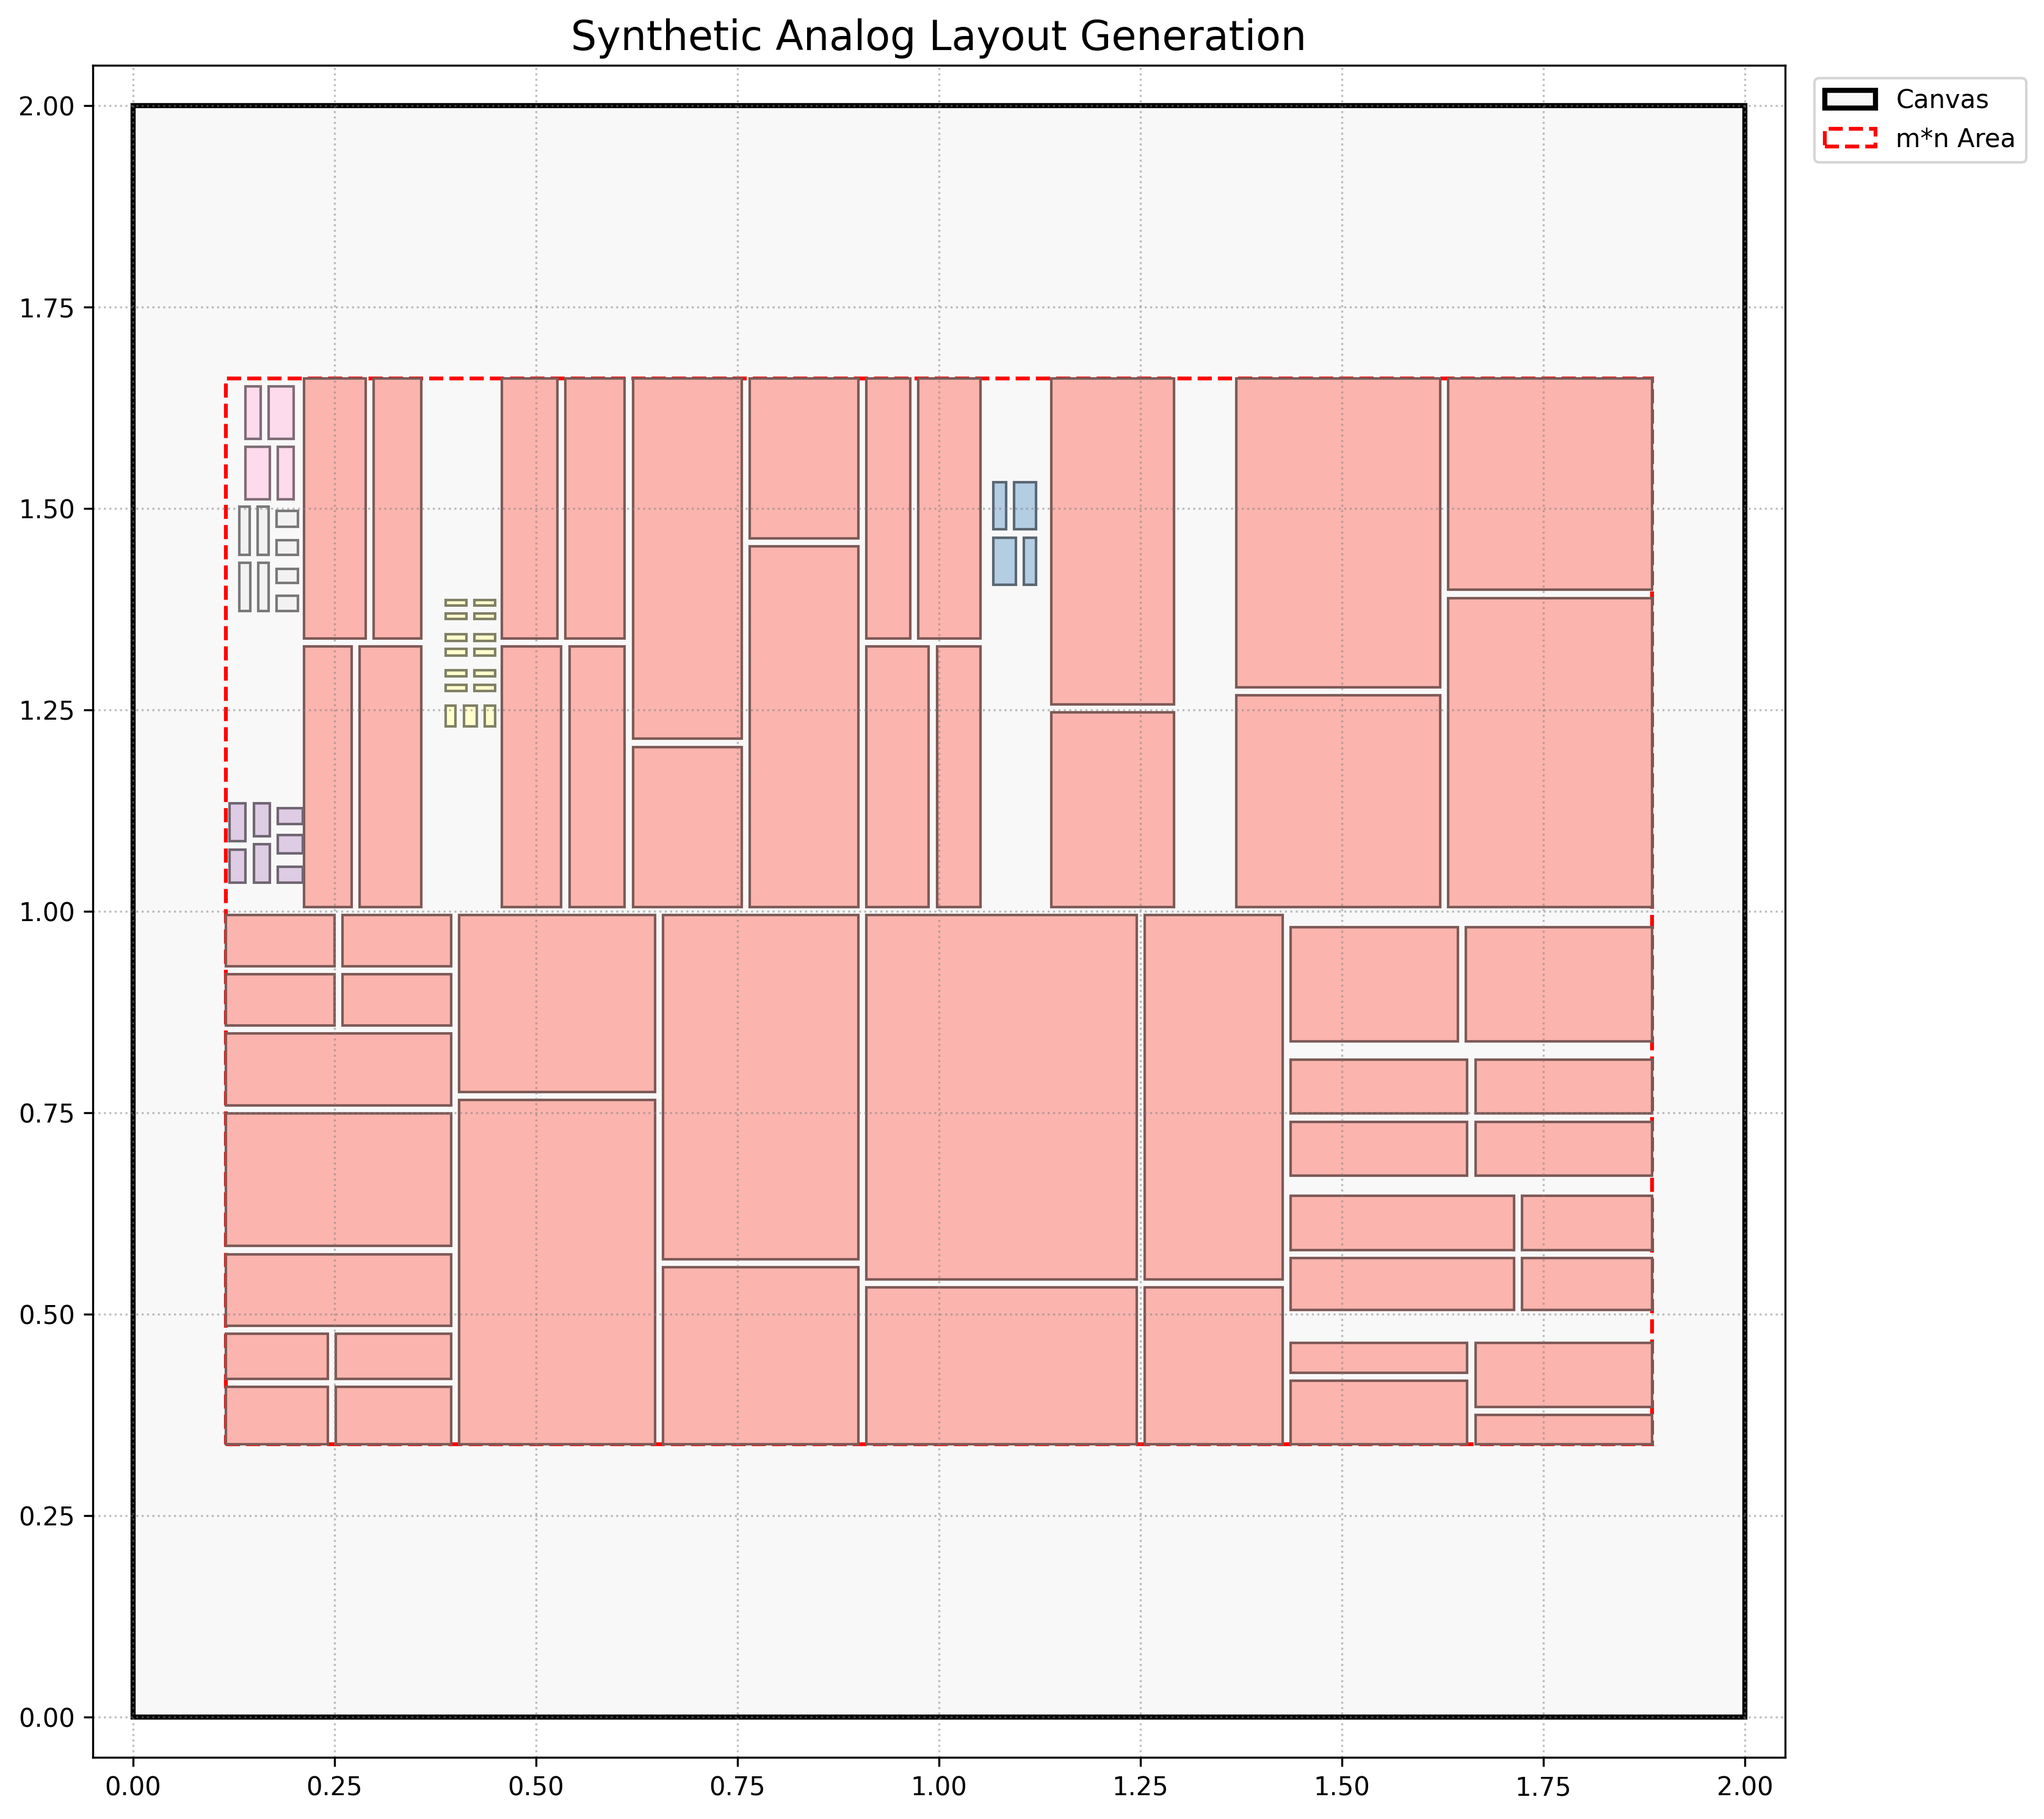
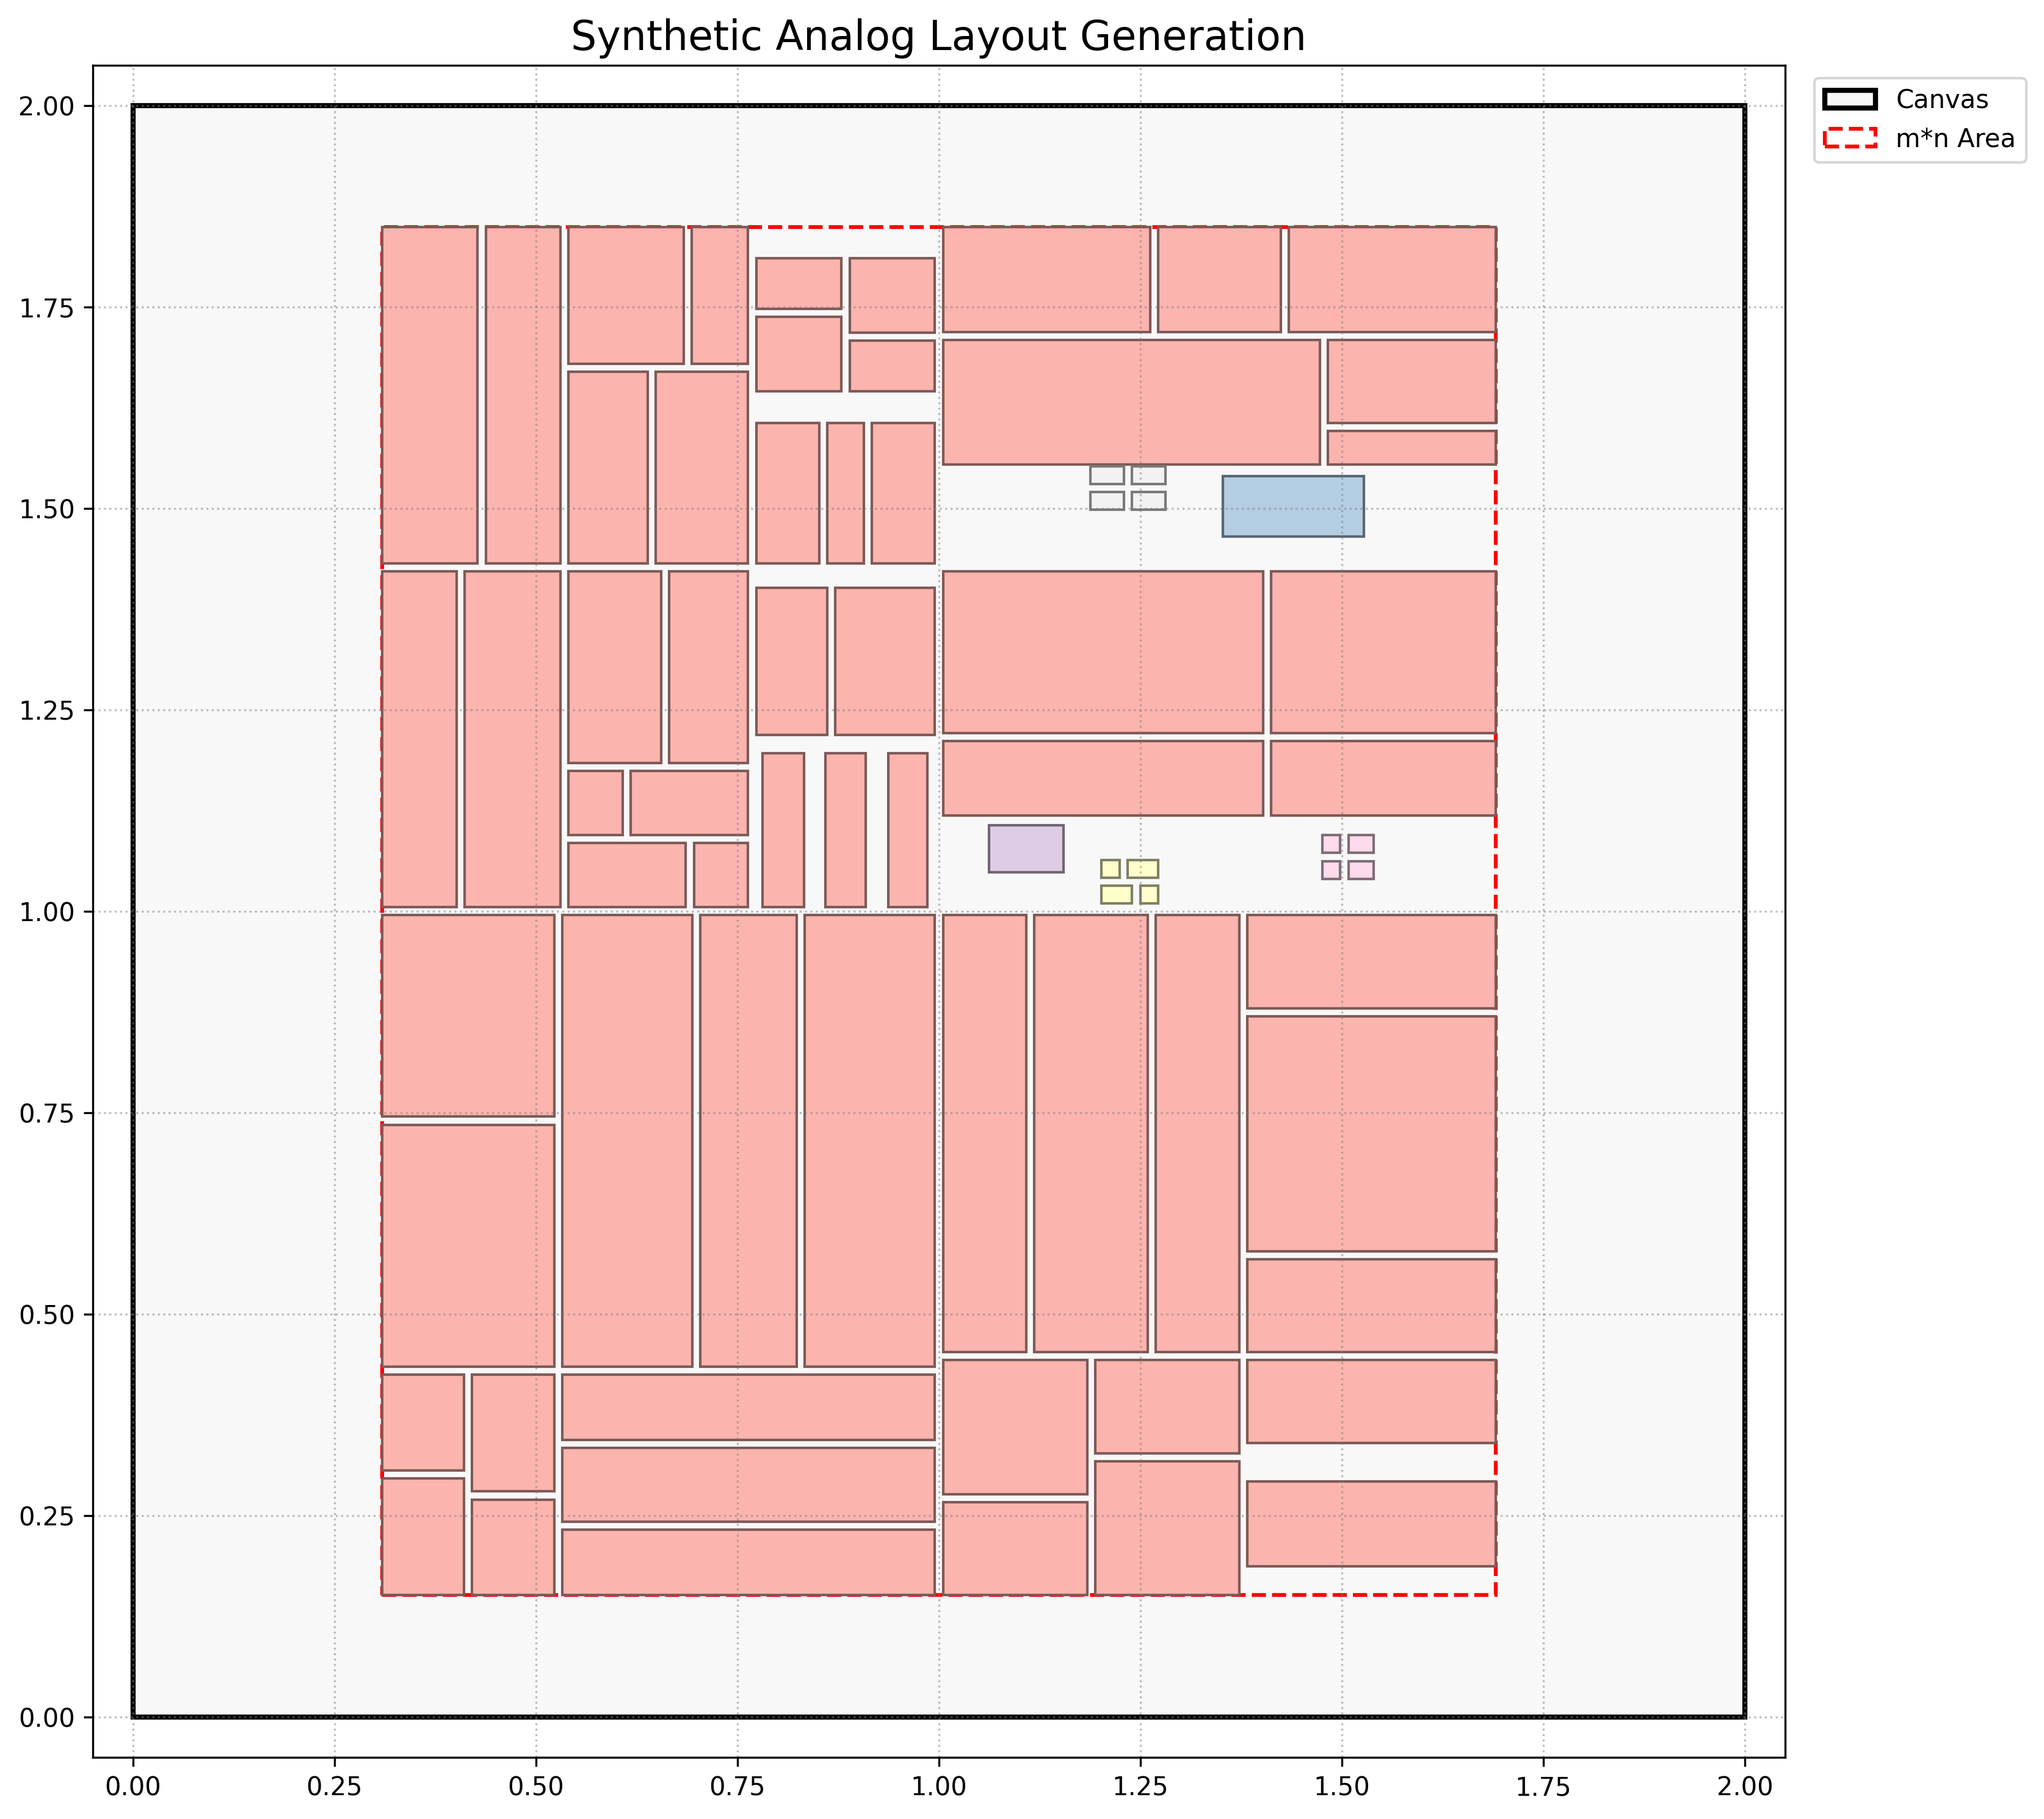
Update: refine fill component split recursion depth definition to maximum value

Changed region(s): [[0.0932, 0.1248, 0.8076, 0.905]]

diff --git a/main.py b/main.py
@@ -9,6 +9,7 @@ from component import Component
 from rule_engine import RuleSelector
 from visualization import visualize_placements
 
+# 'process_component_recursively' 和 'check_overlap' 函式維持不變...
 def process_component_recursively(component: Component, rule_selector: RuleSelector, max_depth: int) -> List[Component]:
     """遞迴地對一個元件應用切割規則，直到達到最大深度。"""
     if component.level >= max_depth:
@@ -54,29 +55,28 @@ def check_overlap(comp1: Component, comp2: Component) -> bool:
                 comp1.y + comp1.height < comp2.y or
                 comp2.y + comp2.height < comp1.y)
 
+
 def main():
     """主執行函式"""
-    # --- 根據 config 中的設定，隨機計算 m*n 矩形的面積與尺寸 ---
+    # ... (前面的程式碼維持不變) ...
     target_area = random.uniform(config.MN_RECT_AREA_RANGE[0], config.MN_RECT_AREA_RANGE[1])
     aspect_ratio = random.uniform(config.MN_ASPECT_RATIO_RANGE[0], config.MN_ASPECT_RATIO_RANGE[1])
     mn_rect_height = math.sqrt(target_area / aspect_ratio)
     mn_rect_width = aspect_ratio * mn_rect_height
     
-    # 安全檢查：確保生成的尺寸不會超過畫布大小
     if mn_rect_width >= config.CANVAS_WIDTH or mn_rect_height >= config.CANVAS_HEIGHT:
         print(f"警告：隨機生成的 m*n 尺寸 ({mn_rect_width:.2f}x{mn_rect_height:.2f}) 過大，將使用最小面積與正方形。")
         fallback_area = config.MN_RECT_AREA_RANGE[0]
         mn_rect_height = math.sqrt(fallback_area)
         mn_rect_width = mn_rect_height
-        target_area = fallback_area # 更新面積值以便顯示
-        aspect_ratio = 1.0          # 更新長寬比以便顯示
+        target_area = fallback_area
+        aspect_ratio = 1.0
     
     print(f"本次 m*n 矩形面積: {target_area:.2f}, 尺寸: {mn_rect_width:.2f} x {mn_rect_height:.2f} (長寬比: {aspect_ratio:.2f})")
     
     rule_selector = RuleSelector()
     all_final_components = []
     
-    # 使用計算出的新尺寸來定位 m*n 矩形
     mn_center_x = (config.CANVAS_WIDTH - mn_rect_width) / 2
     mn_center_y = (config.CANVAS_HEIGHT - mn_rect_height) / 2
     
@@ -90,7 +90,7 @@ def main():
     all_final_components.extend(center_components)
     print(f"中心區域生成了 {len(center_components)} 個元件。")
 
-    print(f"\n--- 步驟 3 & 4: 在 m*n 區域內填補 (生成 {config.NUM_FILLER_COMPONENTS} 組，每組切割 {config.J_ITERATIONS} 次) ---")
+    print(f"\n--- 步驟 3 & 4: 在 m*n 區域內填補 (生成 {config.NUM_FILLER_COMPONENTS} 組，每組最多切割 {config.MAX_J_ITERATIONS} 次) ---")
     for i in range(config.NUM_FILLER_COMPONENTS):
         attempts = 0
         while attempts < 200:
@@ -108,9 +108,13 @@ def main():
                     break
             
             if is_valid:
-                filler_components = process_component_recursively(new_filler, rule_selector, config.J_ITERATIONS)
+                # --- 主要修改處 ---
+                # 為每個填補元件，隨機決定要切割 0 到 MAX_J_ITERATIONS 次
+                num_splits = random.randint(0, config.MAX_J_ITERATIONS)
+                
+                filler_components = process_component_recursively(new_filler, rule_selector, num_splits)
                 all_final_components.extend(filler_components)
-                print(f"成功生成第 {i+1} 組填補元件 ({len(filler_components)} 個)。")
+                print(f"成功生成第 {i+1} 組填補元件 ({len(filler_components)} 個，切割 {num_splits} 次)。")
                 break
             attempts += 1
         if attempts >= 200:
